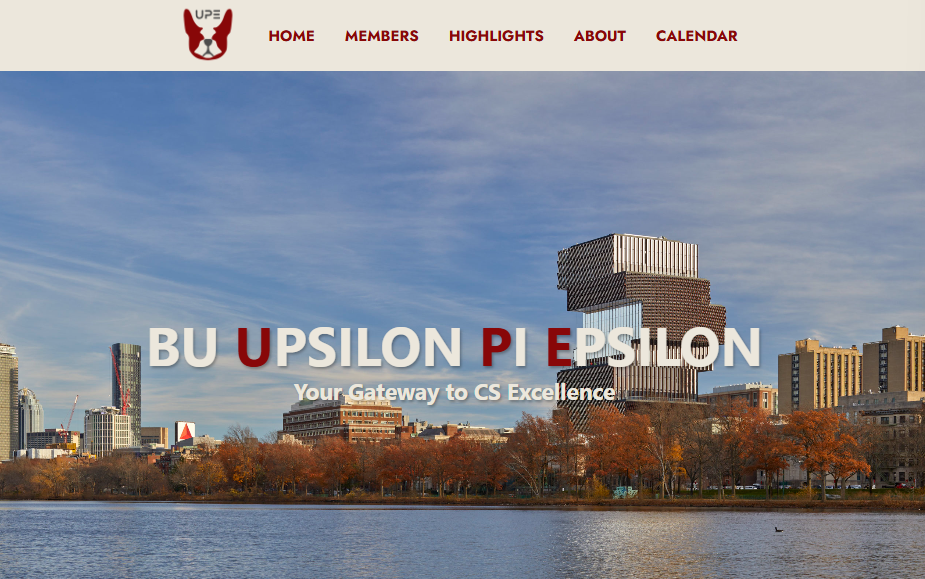
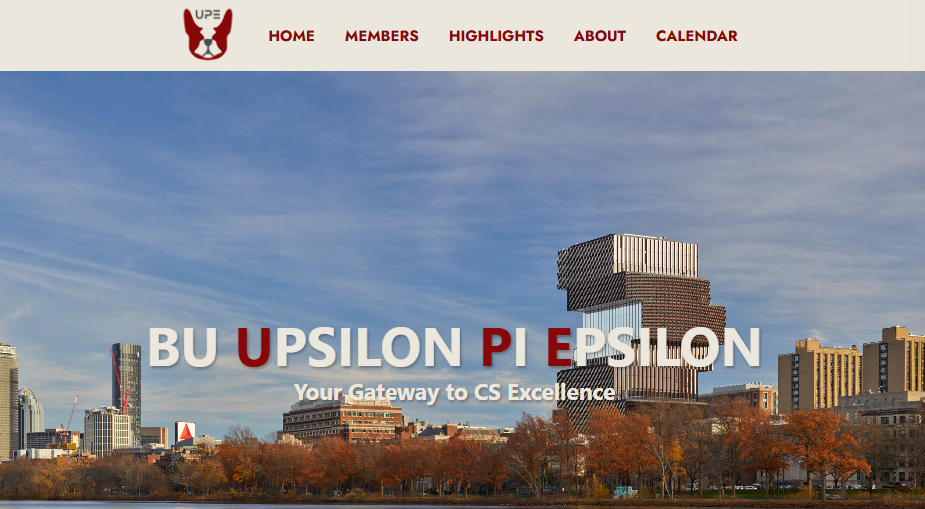
final touches

diff --git a/react-portfolio/src/components/Project/ProjectCard.module.css b/react-portfolio/src/components/Project/ProjectCard.module.css
@@ -8,8 +8,8 @@
 
     background: linear-gradient(180deg, #19376d 0%, rgba(25,55,109,0.6) 100%);
     padding: 18px 24px;
-    max-width: 450px;
-    margin:16px;
+    max-width: 500px;
+    margin: 30px;
     z-index: 1;
 
 }
@@ -26,7 +26,6 @@
 .description {
     margin-top: 6px;
     font-size: 25px;
-    font-weight: 400;
 }
 
 .skills {

diff --git a/react-portfolio/src/components/Hero/Hero.module.css b/react-portfolio/src/components/Hero/Hero.module.css
@@ -40,6 +40,11 @@
     margin-bottom: 40px;
 }
 
+
+.content p {
+    font-size: 24px;
+}
+
 .contactBtn {
     text-decoration: none;
     background-color: var(--color-primary);
